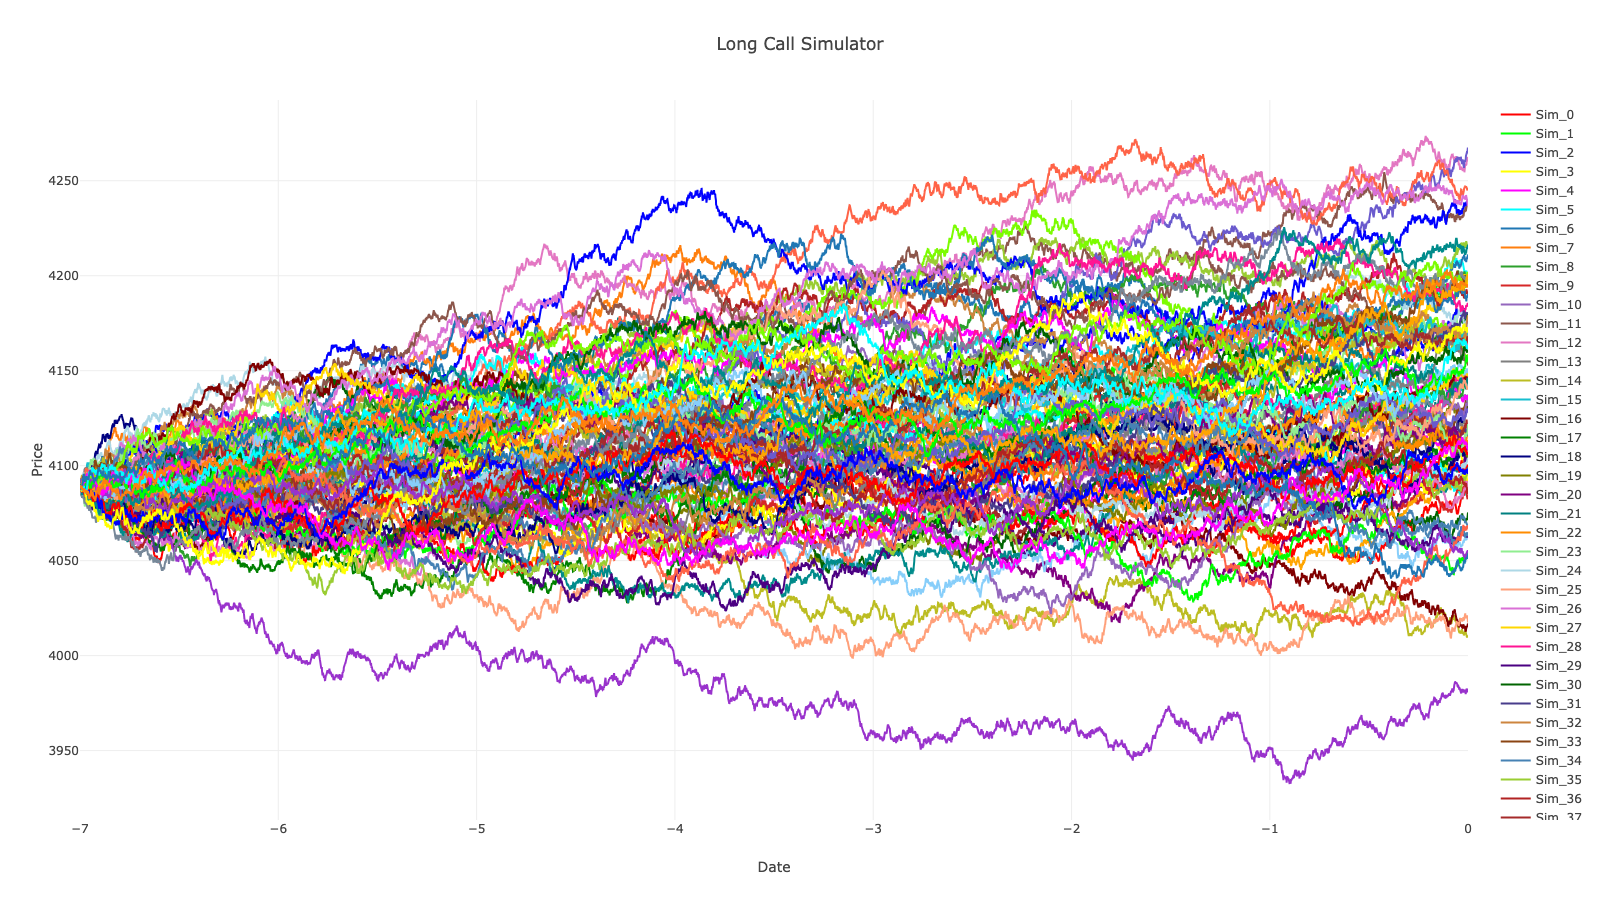
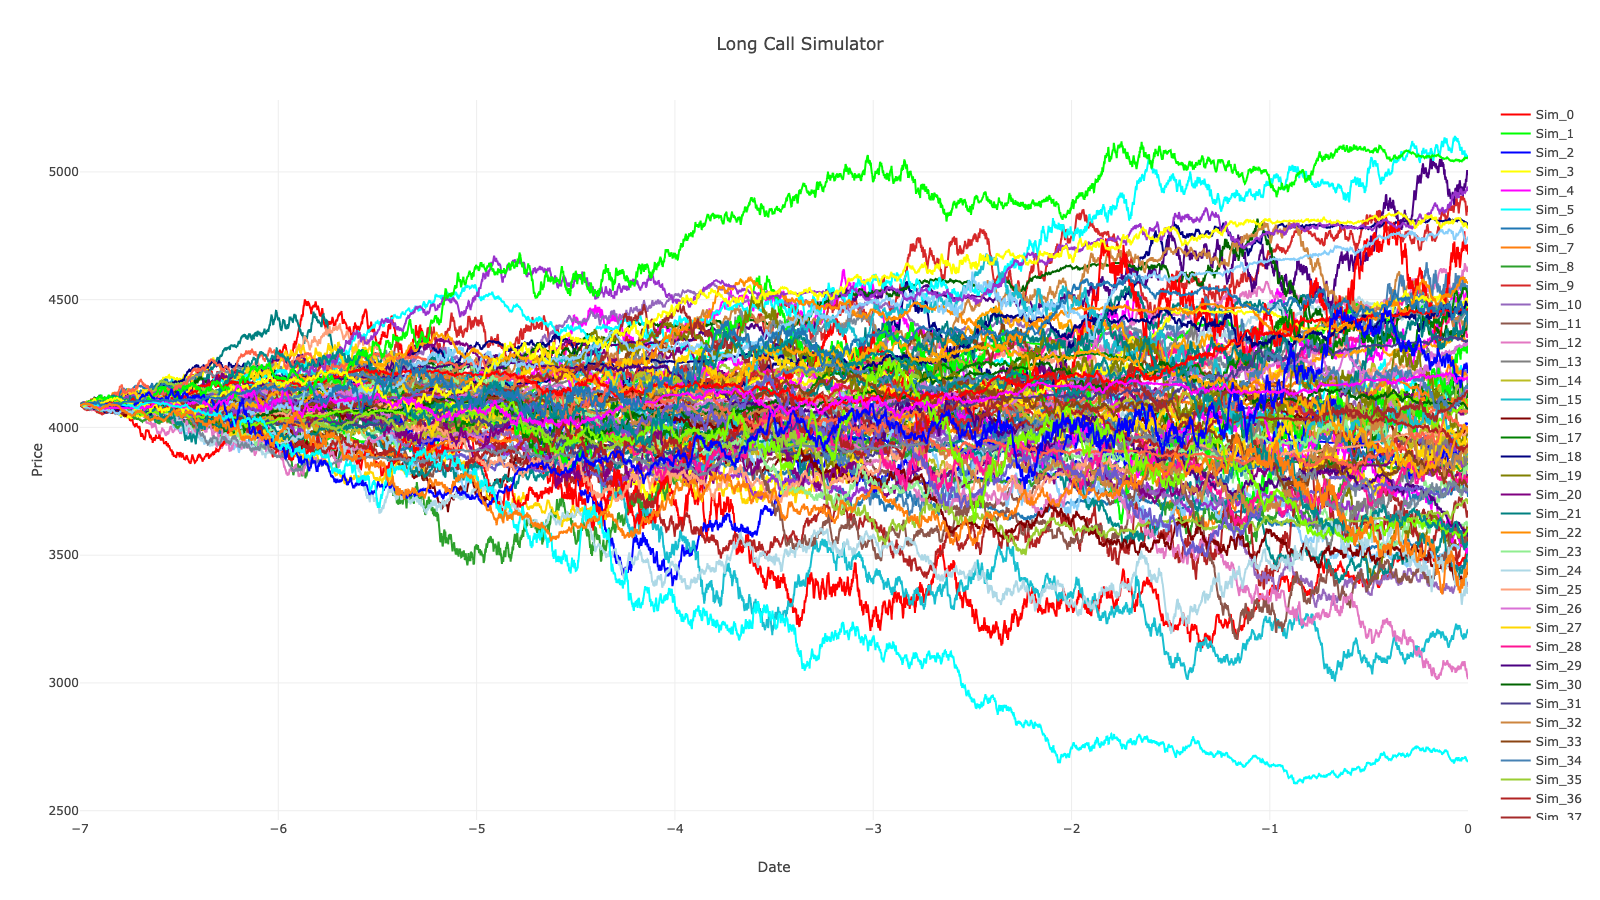
Update `long_call_strategy_simulation` parameters to Heston model and remove Windows tests in CI workflow.

diff --git a/examples/examples_simulation/src/bin/long_call_strategy_simulation.rs b/examples/examples_simulation/src/bin/long_call_strategy_simulation.rs
@@ -141,13 +141,14 @@ fn main() -> Result<(), Error> {
             dt,
             drift: dec!(0.01),
             volatility: volatility_dt,
-            kappa: pos!(0.0),
-            theta: pos!(0.0),
-            xi: pos!(0.0),
-            rho: dec!(0.0),
+            kappa: pos!(2.0),
+            theta: pos!(0.0225),
+            xi: pos!(0.3),
+            rho: dec!(-0.3),
         },
         walker,
     };
+    
 
     // Create Simulator with all random walks at once
     info!(
